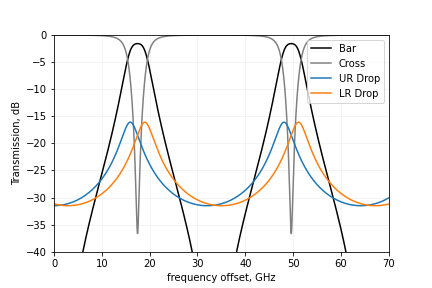
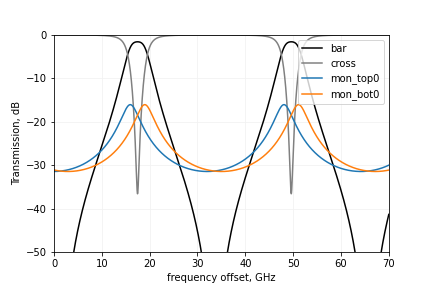
Added filters with GC

diff --git a/filter_design/Filter_APF2_w_GC.py b/filter_design/Filter_APF2_w_GC.py
@@ -67,7 +67,7 @@ class RingResonator4(pt.Network):
 
 
 ###############################################################################
-## 2nd Order APF-type Filter 
+## 4th-Order APD-based Filter 
 ###############################################################################
 class APF(pt.Network):
     r""" This filter uses APF type topology with n pair of rings: 
@@ -132,17 +132,28 @@ class APF(pt.Network):
                     ) # Bottom monitor port                
             # end for i 
             
+
+            self.gc_in = self.gc_in2 = self.gc_bar = self.gc_cross = pt.GratingCoupler(
+                    R       = PDK.GC1.REFLECTION,
+                    R_in    = PDK.GC1.IN_REFLECTION,
+                    Tmax    = PDK.GC1.PEAK_TRANSMISSION,
+                    bandwidth = PDK.GC1.BANDWIDTH,
+                    wl0       = PDK.GC1.CENTER_WAVELENGTH,
+                ) 
+            
+            
             # Define the links      
-            link1   = ["source:0", '0:cp1:1', '0:wg_top:1']
-            link2   = ["in2:0", '3:cp1:2', '0:wg_bot:1']            
+            link1   = ["source:0", '0:gc_in:1', '0:cp1:1', '0:wg_top:1']
+            link2   = ["in2:0", '0:gc_in2:1', '3:cp1:2', '0:wg_bot:1']          
+            
             # Create the top and bottom arm rings
             for i in range(self.num_rings):                
                 link1   += ["0:RR_top%i:1"%i]
                 link2   += ["0:RR_bot%i:1"%i]
             # end for i     
             
-            link1   +=  ['0:cp2:1', '0:cross']
-            link2   +=  ['3:cp2:2', '0:bar']
+            link1   +=  ['0:cp2:1', '1:gc_bar:0', '0:cross']
+            link2   +=  ['3:cp2:2', '1:gc_cross:0', '0:bar']
             self.link(*link1)
             self.link(*link2)                
             
@@ -158,18 +169,18 @@ print(torch.where(APF().free_ports_at)[0])
 ## Simulation Testbench
 ###############################################################################
 c           = constants.C # speed of light
-ng          = PDK.Si_WG1.NG # group index
-neff        = PDK.Si_WG1.NEFF # effective index
-loss        = PDK.Si_WG1.LOSS # dB/cm
+ng      =   PDK.Si_WG1.NG # group index
+neff    =   PDK.Si_WG1.NEFF # effective index
+loss    =   PDK.Si_WG1.LOSS # dB/cm
 
 wl0         = 1.55e-6
-num_rings   = 2 # Two pair of rings
+num_rings   = 1 # Two pair of rings
 ring_length = 2200e-6 #[m]
-kappa       = np.array([0.3461, 0.1223]) # Coupling coefficients
-phi         = np.array([-0.1732, 0.3503]) # Phase shifts in the rings
+kappa       = np.array([0.4385]) # Coupling coefficients
+phi         = np.array([0.2969]) # Phase shifts in the rings
 kappa_drop  = 1/100 # 1% monitor tap
 MZ_length   = 100e-6
-beta        = 1.58
+beta        = -1.6137
 
 # Simualation Parameters
 GHz = 1e9
@@ -216,9 +227,6 @@ cross = sip.dB10(det[0,:,det_list.index('cross'),0])
 
 mon_top0  = sip.dB10(det[0,:,det_list.index('mon_top0'),0])
 mon_bot0  = sip.dB10(det[0,:,det_list.index('mon_bot0'),0])
-mon_top1  = sip.dB10(det[0,:,det_list.index('mon_top1'),0])
-mon_bot1  = sip.dB10(det[0,:,det_list.index('mon_bot1'),0])
-
 
 fig1 = plt.figure()
 
@@ -229,19 +237,17 @@ plt.plot((f-fc)/GHz, cross, label='cross', color='gray')
 
 plt.plot((f-fc)/GHz, mon_top0, label='mon_top0')
 plt.plot((f-fc)/GHz, mon_bot0, label='mon_bot0')
-plt.plot((f-fc)/GHz, mon_top1, label='mon_top1')
-plt.plot((f-fc)/GHz, mon_bot1, label='mon_bot1')
 
-ymin = -80
+ymin = -50
 ymax = 0
 plt.grid(color='0.95')
-#plt.axis([fmin, fmax, ymin, ymax])
+plt.axis([fmin, fmax, ymin, ymax])
 plt.ylabel('Transmission, dB')
 plt.xlabel('frequency offset, GHz')
 plt.legend(loc='lower right')
 
 plt.legend(loc=1)
-plt.savefig('filter_APD4_sim.png')
+plt.savefig('filter_APF2_w_GC_sim.png')
 plt.show()
 
 ###############################################################################

diff --git a/filter_design/Filter_APF4_w_GC.py b/filter_design/Filter_APF4_w_GC.py
@@ -67,7 +67,7 @@ class RingResonator4(pt.Network):
 
 
 ###############################################################################
-## 2nd Order APF-type Filter 
+## 4th-Order APD-based Filter 
 ###############################################################################
 class APF(pt.Network):
     r""" This filter uses APF type topology with n pair of rings: 
@@ -132,17 +132,28 @@ class APF(pt.Network):
                     ) # Bottom monitor port                
             # end for i 
             
+
+            self.gc_in = self.gc_in2 = self.gc_bar = self.gc_cross = pt.GratingCoupler(
+                    R       = PDK.GC1.REFLECTION,
+                    R_in    = PDK.GC1.IN_REFLECTION,
+                    Tmax    = PDK.GC1.PEAK_TRANSMISSION,
+                    bandwidth = PDK.GC1.BANDWIDTH,
+                    wl0       = PDK.GC1.CENTER_WAVELENGTH,
+                ) 
+            
+            
             # Define the links      
-            link1   = ["source:0", '0:cp1:1', '0:wg_top:1']
-            link2   = ["in2:0", '3:cp1:2', '0:wg_bot:1']            
+            link1   = ["source:0", '0:gc_in:1', '0:cp1:1', '0:wg_top:1']
+            link2   = ["in2:0", '0:gc_in2:1', '3:cp1:2', '0:wg_bot:1']          
+            
             # Create the top and bottom arm rings
             for i in range(self.num_rings):                
                 link1   += ["0:RR_top%i:1"%i]
                 link2   += ["0:RR_bot%i:1"%i]
             # end for i     
             
-            link1   +=  ['0:cp2:1', '0:cross']
-            link2   +=  ['3:cp2:2', '0:bar']
+            link1   +=  ['0:cp2:1', '1:gc_bar:0', '0:cross']
+            link2   +=  ['3:cp2:2', '1:gc_cross:0', '0:bar']
             self.link(*link1)
             self.link(*link2)                
             
@@ -158,9 +169,9 @@ print(torch.where(APF().free_ports_at)[0])
 ## Simulation Testbench
 ###############################################################################
 c           = constants.C # speed of light
-ng          = PDK.Si_WG1.NG # group index
-neff        = PDK.Si_WG1.NEFF # effective index
-loss        = PDK.Si_WG1.LOSS # dB/cm
+ng      =   PDK.Si_WG1.NG # group index
+neff    =   PDK.Si_WG1.NEFF # effective index
+loss    =   PDK.Si_WG1.LOSS # dB/cm
 
 wl0         = 1.55e-6
 num_rings   = 2 # Two pair of rings
@@ -241,7 +252,7 @@ plt.xlabel('frequency offset, GHz')
 plt.legend(loc='lower right')
 
 plt.legend(loc=1)
-plt.savefig('filter_APD4_sim.png')
+plt.savefig('filter_APD4_w_GC_sim.png')
 plt.show()
 
 ###############################################################################

diff --git a/filter_design/Filter_APD2_v1.py b/filter_design/Filter_APD2_v1.py
@@ -67,7 +67,7 @@ class RingResonator4(pt.Network):
 
 
 ###############################################################################
-## 2nd Order APF-type Filter 
+## Nth-Order APF-type Filter 
 ###############################################################################
 class APF(pt.Network):
     r""" This filter uses APF type topology with n pair of rings: 
@@ -163,13 +163,13 @@ neff        = PDK.Si_WG1.NEFF # effective index
 loss        = PDK.Si_WG1.LOSS # dB/cm
 
 wl0         = 1.55e-6
-num_rings   = 2 # Two pair of rings
+num_rings   = 1 # Two pair of rings
 ring_length = 2200e-6 #[m]
-kappa       = np.array([0.3461, 0.1223]) # Coupling coefficients
-phi         = np.array([-0.1732, 0.3503]) # Phase shifts in the rings
+kappa       = np.array([0.4385]) # Coupling coefficients
+phi         = np.array([0.2969]) # Phase shifts in the rings
 kappa_drop  = 1/100 # 1% monitor tap
 MZ_length   = 100e-6
-beta        = 1.58
+beta        = -1.6137
 
 # Simualation Parameters
 GHz = 1e9
@@ -216,8 +216,6 @@ cross = sip.dB10(det[0,:,det_list.index('cross'),0])
 
 mon_top0  = sip.dB10(det[0,:,det_list.index('mon_top0'),0])
 mon_bot0  = sip.dB10(det[0,:,det_list.index('mon_bot0'),0])
-mon_top1  = sip.dB10(det[0,:,det_list.index('mon_top1'),0])
-mon_bot1  = sip.dB10(det[0,:,det_list.index('mon_bot1'),0])
 
 
 fig1 = plt.figure()
@@ -229,19 +227,17 @@ plt.plot((f-fc)/GHz, cross, label='cross', color='gray')
 
 plt.plot((f-fc)/GHz, mon_top0, label='mon_top0')
 plt.plot((f-fc)/GHz, mon_bot0, label='mon_bot0')
-plt.plot((f-fc)/GHz, mon_top1, label='mon_top1')
-plt.plot((f-fc)/GHz, mon_bot1, label='mon_bot1')
 
-ymin = -80
+ymin = -50
 ymax = 0
 plt.grid(color='0.95')
-#plt.axis([fmin, fmax, ymin, ymax])
+plt.axis([fmin, fmax, ymin, ymax])
 plt.ylabel('Transmission, dB')
 plt.xlabel('frequency offset, GHz')
 plt.legend(loc='lower right')
 
 plt.legend(loc=1)
-plt.savefig('filter_APD4_sim.png')
+plt.savefig('filter_APD2_sim.png')
 plt.show()
 
 ###############################################################################

diff --git a/libs/PDK.py b/libs/PDK.py
@@ -13,12 +13,27 @@ C = 3e8
 WL0 = 1550e-9
 
 ###############################################################################
-## SOI Waveguide Type 1 - standard waveguide
+# SOI Waveguide 
+# Version 1 - standard waveguide
 # height = 220nm
 # width  = 500nm
 ###############################################################################
 
-WG1_NG     = 4.24      # Group index
-WG1_NEFF   = 2.34      # Effective index
-WG1_LOSS   = 2         # dB/cm
+class Si_WG1:
+    NG     = 4.24      # Group index
+    NEFF   = 2.34      # Effective index
+    LOSS   = 2         # dB/cm
 
+
+###############################################################################
+# Grating Coupler 
+# Version 1 
+###############################################################################
+
+class GC1:
+    CENTER_WAVELENGTH   = 1550e-9 # m
+    REFLECTION          = 0.2**0.5
+    IN_REFLECTION       = 0
+    PEAK_TRANSMISSION   = 0.60**0.5
+    BANDWIDTH           = 0.6e-6  # m
+    

diff --git a/filter_design/Filter_APD2_JLT.py b/filter_design/Filter_APD2_JLT.py
@@ -120,9 +120,9 @@ class APF2(pt.Network):
 
 # Define constants
 c       =   constants.C # speed of light
-ng      =   PDK.WG1_NG # group index
-neff    =   PDK.WG1_NEFF # effective index
-loss    =   PDK.WG1_LOSS # dB/cm
+ng      =   PDK.Si_WG1.NG # group index
+neff    =   PDK.Si_WG1.NEFF # effective index
+loss    =   PDK.Si_WG1.LOSS # dB/cm
 wl0     =   1550e-9
 
 
